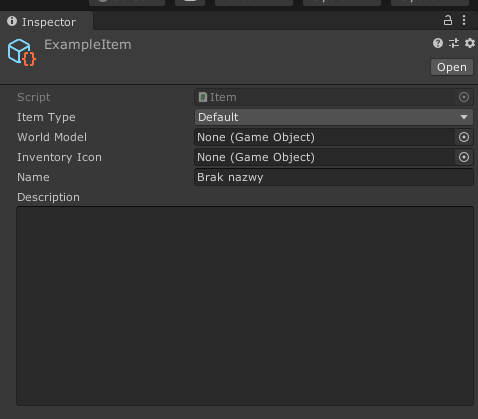
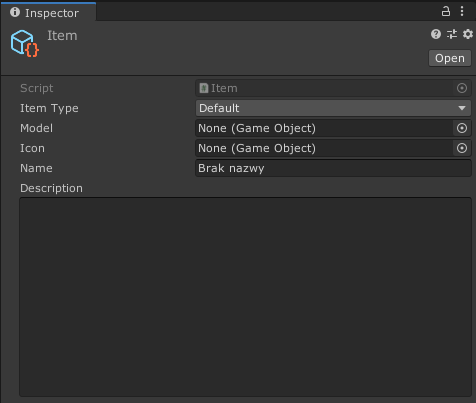
Update Items page, changed name of the docs files

diff --git a/docs/usableItems.md b/docs/usableItems.md
@@ -1,0 +1,81 @@
+---
+id: doc1
+title: Tworzenie przedmiotów
+sidebar_label: Tworzenie przedmiotów
+slug: /items
+---
+
+## Wstęp
+
+Na tej stronie opisany jest proces tworzenia **przedmiotów**, czyli obiektów, których głównym wyróżnikiem jest możliwość przechowywania w ekwipunku. Gracz może też obejrzeć ich model 3D. Posiadanie konkretnego przedmiotu może pozwolić graczowi na wykonanie jakiejś wcześniej zablokowanej czynności (np. posiadanie klucza umożliwi otworzenie konkretnych drzwi).
+
+Jeżeli twoim celem jest jedynie stworzenie obiektów, z którymi gracz będzie wchodził w interakcję *w świecie gry*, i nie będzie ich przenosił w ekwipunku, może bardziej zainteresuje cię: [Tworzenie elementów interaktywnych](interactables)
+
+## 1. Stworzenie scriptable objectu 
+
+Tworzymy specjalny Scriptable Object w assetach (najlepiej w odpowiednim folderze). Można to zrobić klikając prawym przyciskiem myszki na folderze -> Create -> Inventory system -> Item
+
+Utworzy nam to bazę pod przedmiot.
+Asset nazywamy jak chcemy, nazwa ta nie będzie widoczna w grze.
+
+![img](../static/img/creating_items_1.png)
+
+## 2. Ustawienie własności przedmiotu
+Teraz musimy uzupełnić informacje o przedmiocie:
+
+![img](../static/img/creating_items_2.png)
+
+### Item type
+
+Służy do identyfikacji itemu w kodzie. Np. gdy potrzebujemy określonego klucza do drzwi, które znajdują się w piwnicy, można dodać ItemType "**BasementKey**", a następnie sprawdzić, czy gracz posiada przedmiot o takim typie.
+
+Aby dodać nowy typ, trzeba ręcznie dodać go w skrypcie Item, w enumie ItemType:
+
+![img](../static/img/creating_items_3.png)
+
+:::note
+Jest to dość nieefektywny sposób na identyfikację przedmiotów (trzeba ręcznie dodawać nowe typy w kodzie, typy są globalne dla wszystkich leveli itd.) dlatego najprawdopodobniej system ten zostanie zmieniony.
+:::
+
+### Model
+
+Jest to model przedmiotu, który będzie oglądał gracz za pomocą inspekcji włączanej z ekwipunku. Aktualnie nie powinien mieć on żadnych dodatkowych skryptów (w szczególności ItemWorld lub Interactable!), ma to być prosty model 3D. Jeżeli zdecydujemy się żeby gracz mógł wykonywać różne interakcje podczas oglądania przedmiotu (np. wysunięcie czegoś, starcie zdrapki itp.) to dodatkowe skrypty oczywiście będą potrzebne.
+
+:::warning
+Nie jest to ten sam model przedmiotu, który oglądamy **podnosząc** przedmiot w świecie gry! Być może ulegnie to zmianie (np. gdy wprowadzimy dodatkowe interakcje podczas oglądania przedmiotu), ale na razie nie jest to zaplanowane (gdybyśmy jednak postanowili to zrobić, ten model prawdopodobnie byłby używany w obu przypadkach, tzn. oglądając przedmiot w świecie gry, jak i oglądając go z ekwipunku).
+:::
+
+### Icon
+
+Ikonka przedmiotu, którą widzi gracz przeglądając ekwipunek.
+
+Potrzebna nam będzie tekstura, która będzie wyświetlana jako ikonka przedmiotu, czyli po prostu <br></br> jakiś plik np. png. Po zaimportowaniu go do Unity, **trzeba zmienić jego Texture Type na Sprite (2D and UI)**.
+
+W tym momencie są dwie opcje:
+- łatwiejsza i lepsza na przyszłość to stworzenie wariantu prefabu bazowej ikonki
+
+![img](../static/img/creating_items_icon2.png)
+
+- trudniejsza, dłuższa i być może mniej przyszłościowa (zmieniając bazową ikonkę, możemy zedytować wszystkie jej warianty jednocześnie) to manualne stworzenie ikonki
+
+Opiszę teraz jak to zrobić:
+
+Na scenie należy utworzyć obiekt typu Image* (prawy przycisk myszy -> UI -> Image, automatycznie zostanie on dodany do canvasu, lub jeżeli nie ma żadnego na scenie, to go utworzy).
+
+**Nie musi to być konkretnie typ Image, wystarczy, że będzie to jakiś element UI wykorzystujący Rect Transform, jednak zalecany jest typ Image.*
+
+![img](../static/img/creating_items_icon.png)
+
+- Wybrać odpowiednią teksturę w miejscu Source Image
+- Dodać do niego skrypt ItemUI
+- Przenieść nasz obiekt ze sceny do assetów i stworzyć z niego prefab, a następnie umieścić prefab <br></br> w zmiennej **Icon** naszego przedmiotu
+
+### Name, Description
+Nazwa oraz opis przedmiotu, które pokazują się w ekwipunku.
+
+## Ostatnie uwagi
+
+Przedmiot, który właśnie stworzyliśmy, może zostać dodany do ekwipunku gracza jedynie z poziomu kodu.
+Aby umieścić nasz przedmiot na scenie, czyli aby mógł być on podnoszony oraz oglądany, należy stworzyć tak zwany element interaktywny, a następnie dodać do obiektu skrypt **ItemWorld** i odpowiednio skonfigurować.
+
+Instrukcje jak to zrobić znajdują się tutaj: [Tworzenie elementów interaktywnych](interactables)

diff --git a/docs/main.md b/docs/main.md
@@ -5,7 +5,9 @@ sidebar_label: Strona główna
 slug: /
 ---
 
-![img](../static/img/susteny.png)
+<div style={{textAlign: 'center'}}>
+  <img src="../static/img/susteny.png" />
+</div>
+<br></br>
 
-Opisane są tu różne istniejące systemy, które można wykorzystać podczas tworzenia gry "Susteny".
-Należy rozwinąć kategorię "Systemy".
+Opisane są tu różne istniejące już systemy, które wykorzystujemy podczas tworzenia gry "Susteny".<br></br>Należy rozwinąć kategorię "Systemy".
